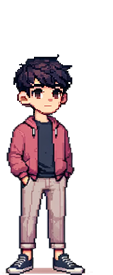
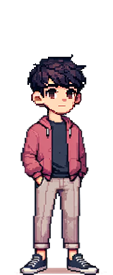
play animations when minimizing and maximizing player

diff --git a/logic/player.js b/logic/player.js
@@ -25,6 +25,12 @@ import playerWalkMini8 from "../resources/images/player_walkA8.png";
 import playerWalkMini9 from "../resources/images/player_walkA9.png";
 import { checkDistance } from "./interactions/distanceCheckUtils";
 
+import playerShrink1 from "../resources/images/player_idle0_small.png";
+import playerShrink2 from "../resources/images/player_idle0_smallest.png";
+import updateAnimatedSpriteTextures from "./interactions/updateAnimatedSpriteTextures";
+import gameState from "../data/gameState";
+import openPopup from "./interactions/openPopup";
+
 /**
  * Class for players
  */
@@ -34,7 +40,7 @@ class Player {
    * @param {PIXI.Application} app - Application where the player is added to
    */
   static player = null;
-  static isMiniSize = null;
+  static app = null;
   constructor(app) {
     // Load player idle and walk animation frames
     Player.playerIdleFrames = [PIXI.Texture.from(playeridle)];
@@ -52,9 +58,8 @@ class Player {
       PIXI.Texture.from(playerWalk11),
       PIXI.Texture.from(playerWalk12),
     ];
-    Player.isMiniSize = false;
     // this.destinationReached = true;
-
+    Player.app = app;
     // Create player sprite with idle animation
     Player.player = new PIXI.AnimatedSprite(Player.playerIdleFrames);
     Player.player.position.set(450, 620);
@@ -71,6 +76,7 @@ class Player {
     Player.player.eventMode = "none";
     app.mainScene.addChild(Player.player);
     this.targetPosition = new PIXI.Point(Player.player.x, Player.player.y);
+    Player.player.isTransforming = false;
   }
 
   move(targetPosition, solidObjects) {
@@ -79,6 +85,12 @@ class Player {
      * @param {number} targetPosition - Coordinate where the player is moved to
      * @param {Object[]} solidObjects - Array of solid objects
      */
+
+    // do not move the player while transforming (minimize or maximize animation)
+    if (Player.player.isTransforming) {
+      return;
+    }
+
     // If position outside walkableArea is clicked, adjust position
     targetPosition = this.adjustTargetPosition(targetPosition);
 
@@ -115,7 +127,7 @@ class Player {
       // Switch to the walk animation frames
       if (Player.player.textures !== Player.playerWalkFrames) {
         Player.player.textures = Player.playerWalkFrames;
-        if (Player.isMiniSize) {
+        if (gameState.playerIsMiniSize) {
           Player.player.animationSpeed = 0.3;
         } else {
           Player.player.animationSpeed = 0.15; // Set animation speed for walk animation
@@ -146,6 +158,7 @@ class Player {
     if (Player.player.textures !== Player.playerIdleFrames) {
       Player.player.textures = Player.playerIdleFrames;
       Player.player.animationSpeed = 0.05; // Set animation speed for idle animation
+
       Player.player.play();
       // Check if an action is pending and perform it
       if (Player.player.pendingAction) {
@@ -207,37 +220,81 @@ class Player {
     return loc;
   }
   static minimizePlayer() {
-    Player.isMiniSize = true;
-    Player.playerIdleFrames = [PIXI.Texture.from(playerIdleMini)];
-    Player.playerWalkFrames = [
-      PIXI.Texture.from(playerWalkMini1),
-      PIXI.Texture.from(playerWalkMini2),
-      PIXI.Texture.from(playerWalkMini3),
-      PIXI.Texture.from(playerWalkMini4),
-      PIXI.Texture.from(playerWalkMini5),
-      PIXI.Texture.from(playerWalkMini6),
-      PIXI.Texture.from(playerWalkMini7),
-      PIXI.Texture.from(playerWalkMini8),
-      PIXI.Texture.from(playerWalkMini9),
+    // check if player is mini size already
+    if (gameState.playerIsMiniSize) {
+      return;
+    }
+
+    Player.player.isTransforming = true;
+    gameState.playerIsMiniSize = true;
+    const animationTextures = [
+      PIXI.Texture.from(playerShrink1),
+      PIXI.Texture.from(playerShrink2),
+      PIXI.Texture.from(playerIdleMini),
     ];
+
+    Player.player.textures = animationTextures;
+    Player.player.loop = false;
+
+    Player.player.onComplete = () => {
+      Player.playerIdleFrames = [PIXI.Texture.from(playerIdleMini)];
+      Player.player.textures = Player.playerIdleFrames;
+      Player.playerWalkFrames = [
+        PIXI.Texture.from(playerWalkMini1),
+        PIXI.Texture.from(playerWalkMini2),
+        PIXI.Texture.from(playerWalkMini3),
+        PIXI.Texture.from(playerWalkMini4),
+        PIXI.Texture.from(playerWalkMini5),
+        PIXI.Texture.from(playerWalkMini6),
+        PIXI.Texture.from(playerWalkMini7),
+        PIXI.Texture.from(playerWalkMini8),
+        PIXI.Texture.from(playerWalkMini9),
+      ];
+      Player.player.loop = true;
+      Player.player.isTransforming = false;
+    };
+    Player.player.play();
   }
+
   static maximizePlayer() {
-    Player.isMiniSize = false;
-    Player.playerIdleFrames = [PIXI.Texture.from(playeridle)];
-    Player.playerWalkFrames = [
-      PIXI.Texture.from(playerWalk1),
-      PIXI.Texture.from(playerWalk2),
-      PIXI.Texture.from(playerWalk3),
-      PIXI.Texture.from(playerWalk4),
-      PIXI.Texture.from(playerWalk5),
-      PIXI.Texture.from(playerWalk6),
-      PIXI.Texture.from(playerWalk7),
-      PIXI.Texture.from(playerWalk8),
-      PIXI.Texture.from(playerWalk9),
-      PIXI.Texture.from(playerWalk10),
-      PIXI.Texture.from(playerWalk11),
-      PIXI.Texture.from(playerWalk12),
+    // check if player is not mini size already
+    if (!gameState.playerIsMiniSize) {
+      return;
+    }
+
+    Player.player.isTransforming = true;
+    gameState.playerIsMiniSize = false;
+    const animationTextures = [
+      PIXI.Texture.from(playerIdleMini),
+      PIXI.Texture.from(playerShrink2),
+      PIXI.Texture.from(playerShrink1),
     ];
+
+    Player.player.textures = animationTextures;
+    Player.player.loop = false;
+
+    Player.player.onComplete = () => {
+      Player.playerIdleFrames = [PIXI.Texture.from(playeridle)];
+      Player.player.textures = Player.playerIdleFrames;
+      Player.playerWalkFrames = [
+        PIXI.Texture.from(playerWalk1),
+        PIXI.Texture.from(playerWalk2),
+        PIXI.Texture.from(playerWalk3),
+        PIXI.Texture.from(playerWalk4),
+        PIXI.Texture.from(playerWalk5),
+        PIXI.Texture.from(playerWalk6),
+        PIXI.Texture.from(playerWalk7),
+        PIXI.Texture.from(playerWalk8),
+        PIXI.Texture.from(playerWalk9),
+        PIXI.Texture.from(playerWalk10),
+        PIXI.Texture.from(playerWalk11),
+        PIXI.Texture.from(playerWalk12),
+      ];
+      Player.player.loop = true;
+      openPopup(Player.app, "Back to normal size", null);
+      Player.player.isTransforming = false;
+    };
+    Player.player.play();
   }
 }
 

diff --git a/data/gameData.js b/data/gameData.js
@@ -297,10 +297,10 @@ const gameData = {
 
             // remove coffee from inventory
             gameState.inventory.removeItem("Coffee");
-
-            openPopup(app, "hyvää kahvia", null);
+            gameState.inventory.removeItem("Coffee cup");
             Player.minimizePlayer();
-            gameState.playerIsMiniSize = true;
+            openPopup(app, "whats happening to me??", null);
+
             app.scenes["mainScene"].updateTransform();
           }),
         zIndex: 0,
@@ -411,7 +411,7 @@ const gameData = {
         collisionHeight: 0, // not yet used
         onInteraction: (app) => () =>
           checkDistance(app, 0.88, 0.83, "mainScene", () => {
-            if (!Player.isMiniSize) {
+            if (!gameState.playerIsMiniSize) {
               openPopup(app, "on kyl pieni hiirenkolo...", null);
               return;
             }
@@ -860,7 +860,6 @@ const gameData = {
         onInteraction: (app) => () => {
           switchScene(app, "mainScene");
           Player.maximizePlayer();
-          gameState.playerIsMiniSize = false;
         },
         zIndex: 10,
       },
